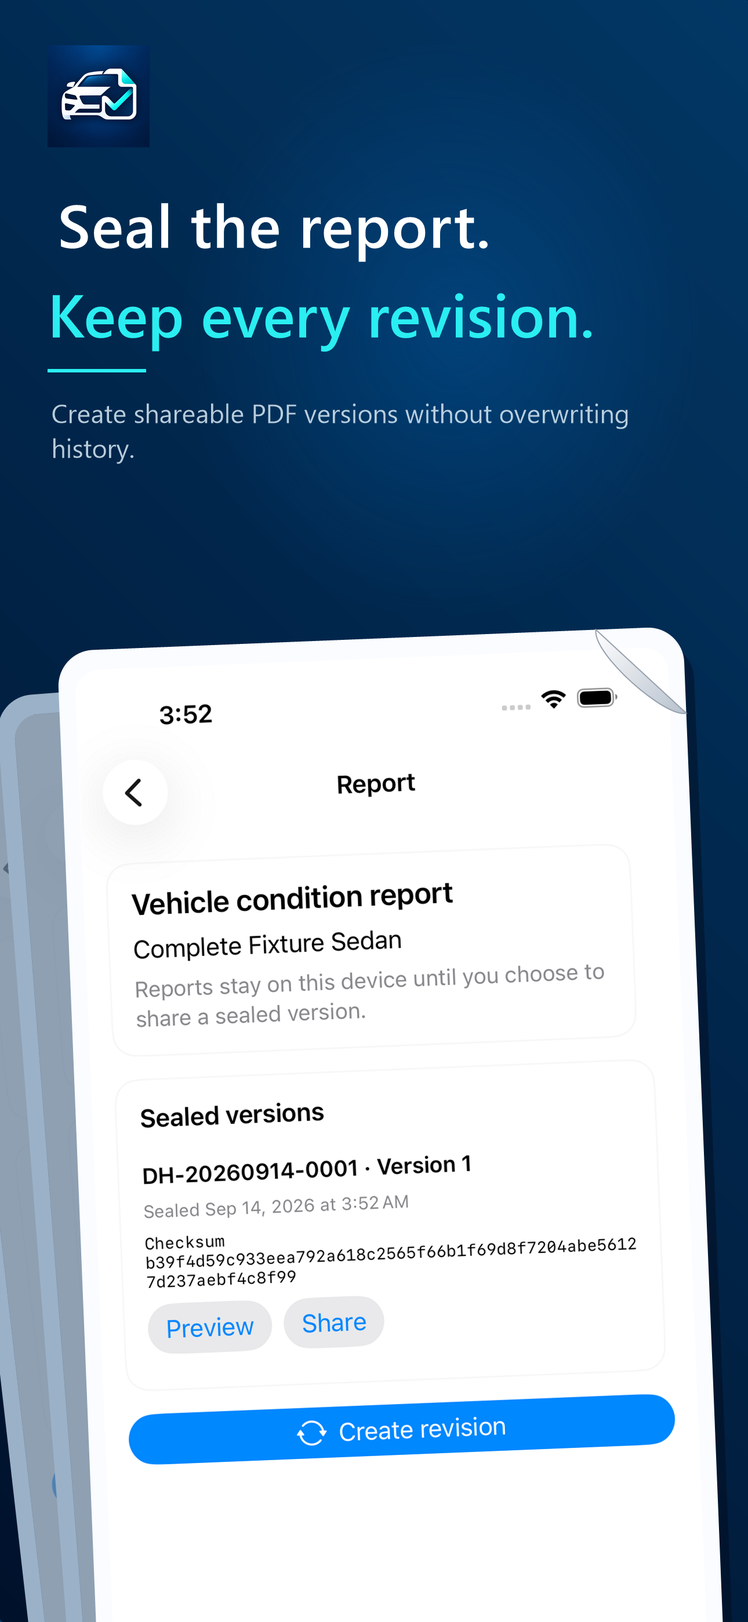
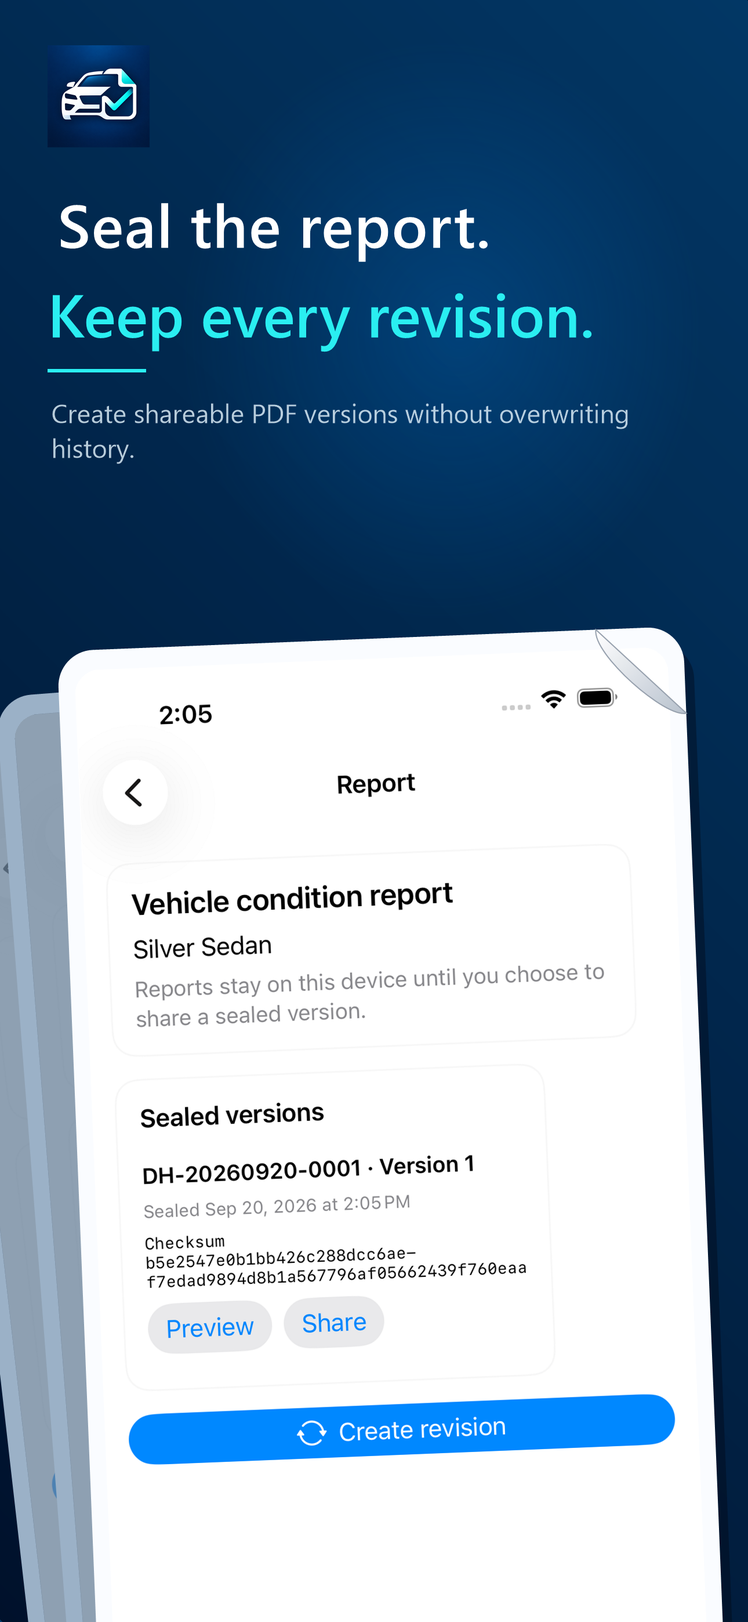
Use fictional vehicle photos in App Store screenshot fixtures (#4)
* Replace screenshot placeholders with fictional vehicle photos

* Stabilize iPad screenshot navigation and result upload

* Polish screenshot headline and capture photo count

* Refresh draft App Store screenshots from green CI

---------

diff --git a/DetailHandoff/Testing/UITestFixtures.swift b/DetailHandoff/Testing/UITestFixtures.swift
@@ -5,7 +5,10 @@ import UIKit
 
 @MainActor
 enum UITestFixtures {
-    private enum FixtureError: Error { case unknownFixture }
+    private enum FixtureError: Error {
+        case unknownFixture
+        case missingPhoto(String)
+    }
     private static let fixtureArgument = "--screenshot-fixture"
     private static let startupFailureArgument = "--startup-failure"
     private static let preserveStoreArgument = "--ui-testing-preserve-store"
@@ -75,7 +78,7 @@ enum UITestFixtures {
         let media = MediaStore(root: root.appendingPathComponent("CaptureMedia", isDirectory: true))
         let business = BusinessRepository(context: context, media: media)
         let profile = try business.createProfile(
-            businessName: "Fixture Detail",
+            businessName: "Northline Detail Studio",
             phone: "555-0100",
             email: "fixtures@example.test",
             configuration: .standard
@@ -85,8 +88,8 @@ enum UITestFixtures {
         case "complete":
             let captureJob = try makeCaptureFixture(in: context, media: media)
             let completeJob = try makeReviewReadyJob(
-                vehicle: "Complete Fixture Sedan",
-                customer: "Taylor Fixture",
+                vehicle: "Silver Sedan",
+                customer: "Alex Morgan",
                 in: context,
                 media: media
             )
@@ -115,12 +118,12 @@ enum UITestFixtures {
     }
 
     private static func makeCaptureFixture(in context: ModelContext, media: MediaStore) throws -> JobRecord {
-        let job = try makeJob(vehicle: "Capture Fixture Coupe", customer: "Casey Fixture", in: context)
+        let job = try makeJob(vehicle: "Silver Sedan Walkaround", customer: "Alex Morgan", in: context)
         let jobs = JobRepository(context: context)
         try jobs.advance(job)
         try CaptureRepository(context: context, media: media).addPhoto(
             to: job,
-            data: imageData(index: 0),
+            data: try imageData(for: "front"),
             slotID: "front",
             phase: .before
         )
@@ -147,7 +150,7 @@ enum UITestFixtures {
                     slotID: beforePhoto.slotID,
                     kind: FindingKind.scratch.rawValue,
                     severity: FindingSeverity.minor.rawValue,
-                    notes: "Fixture door-edge mark",
+                    notes: "Small scuff on the front bumper",
                     photoIDs: [beforePhoto.id]
                 )
             )
@@ -173,10 +176,10 @@ enum UITestFixtures {
         try JobRepository(context: context).createJob(
             customerName: customer,
             vehicleLabel: vehicle,
-            plate: "FIX-017",
+            plate: "SAMPLE",
             color: "Silver",
             serviceName: "Full detail",
-            notes: "Generated only for DEBUG UI verification."
+            notes: "Before-service walkaround and full detail."
         )
     }
 
@@ -185,21 +188,32 @@ enum UITestFixtures {
         phase: CapturePhase,
         capture: CaptureRepository
     ) throws {
-        for (index, slot) in CaptureSlot.standard.enumerated() where slot.isRequired {
-            try capture.addPhoto(to: job, data: imageData(index: index), slotID: slot.id, phase: phase)
+        for slot in CaptureSlot.standard where slot.isRequired {
+            try capture.addPhoto(to: job, data: imageData(for: slot.id), slotID: slot.id, phase: phase)
         }
     }
 
-    private static func imageData(index: Int) -> Data {
-        let size = CGSize(width: index.isMultiple(of: 2) ? 480 : 240, height: index.isMultiple(of: 2) ? 240 : 480)
-        return UIGraphicsImageRenderer(size: size).jpegData(withCompressionQuality: 0.85) { context in
-            UIColor(hue: CGFloat(index) / 12, saturation: 0.45, brightness: 0.85, alpha: 1).setFill()
-            context.fill(CGRect(origin: .zero, size: size))
-            ("Fixture evidence \(index + 1)" as NSString).draw(
-                at: CGPoint(x: 20, y: 40),
-                withAttributes: [.font: UIFont.boldSystemFont(ofSize: 20), .foregroundColor: UIColor.black]
-            )
+    private static func imageData(for slotID: String) throws -> Data {
+        let photos = [
+            "front": "ScreenshotFront",
+            "rear": "ScreenshotRear",
+            "driver-side": "ScreenshotSide",
+            "passenger-side": "ScreenshotPassengerSide",
+            "front-bumper": "ScreenshotFront",
+            "rear-bumper": "ScreenshotRear",
+            "hood-windshield": "ScreenshotFront",
+            "wheels-tires": "ScreenshotWheel",
+            "front-seats": "ScreenshotInterior",
+            "rear-seats": "ScreenshotRearSeats",
+            "dashboard-console": "ScreenshotInterior",
+            "trunk": "ScreenshotCargo"
+        ]
+        guard let name = photos[slotID],
+              let image = UIImage(named: name),
+              let data = image.jpegData(compressionQuality: 0.85) else {
+            throw FixtureError.missingPhoto(slotID)
         }
+        return data
     }
 }
 #endif

diff --git a/DetailHandoffUITests/WorkflowUITests.swift b/DetailHandoffUITests/WorkflowUITests.swift
@@ -45,7 +45,7 @@ final class WorkflowUITests: XCTestCase {
     // Complete evidence must remain editable in review and revision; edits must block stale resealing.
     func testReviewAndRevisionExposePhotoCorrectionAndRequireNewAcknowledgment() throws {
         for revision in [false, true] {
-            let vehicle = revision ? "Revision Fixture SUV" : "Complete Fixture Sedan"
+            let vehicle = revision ? "Revision Fixture SUV" : "Silver Sedan"
             launch(arguments: ["--ui-testing", "--screenshot-fixture", revision ? "revision" : "complete"])
             openFixtureWorkflow(named: vehicle)
             if revision {
@@ -164,7 +164,7 @@ final class WorkflowUITests: XCTestCase {
     // Saved acknowledgment must be visible on reopen and only change through an explicit replacement.
     func testSavedAcknowledgmentReopensAndReplacementCanBeCancelled() throws {
         launch(arguments: ["--ui-testing", "--screenshot-fixture", "complete"])
-        openFixtureWorkflow(named: "Complete Fixture Sedan")
+        openFixtureWorkflow(named: "Silver Sedan")
         let report = scrollUntilHittable(
             {
                 app.descendants(matching: .any)
@@ -184,7 +184,7 @@ final class WorkflowUITests: XCTestCase {
         app.buttons["report.acknowledgment"].tap()
         let name = app.staticTexts["acknowledgment.savedName"]
         scrollUntilHittable(name)
-        XCTAssertEqual(name.label, "Taylor Fixture")
+        XCTAssertEqual(name.label, "Alex Morgan")
         let recordedAt = app.staticTexts["acknowledgment.savedTime"]
         require(recordedAt)
         let savedTime = recordedAt.label
@@ -194,7 +194,7 @@ final class WorkflowUITests: XCTestCase {
         scrollUntilHittable(app.buttons["acknowledgment.cancelReplacement"])
         app.buttons["acknowledgment.cancelReplacement"].tap()
         XCTAssertEqual(recordedAt.label, savedTime)
-        XCTAssertEqual(name.label, "Taylor Fixture")
+        XCTAssertEqual(name.label, "Alex Morgan")
         tapReachable(app.buttons["acknowledgment.replace"])
         scrollUntilHittable(app.buttons["Customer unavailable"])
         app.buttons["Customer unavailable"].tap()
@@ -305,7 +305,7 @@ final class WorkflowUITests: XCTestCase {
         launch(arguments: ["--ui-testing", "--screenshot-fixture", "complete"])
 
         openCaptureScreen()
-        openFixtureWorkflow(named: "Complete Fixture Sedan")
+        openFixtureWorkflow(named: "Silver Sedan")
         openFindingsScreen()
         let report = scrollUntilHittable(
             {
@@ -523,15 +523,16 @@ final class WorkflowUITests: XCTestCase {
     }
 
     private func openCaptureScreen() {
-        require(app.staticTexts["Capture Fixture Coupe"])
-        app.staticTexts["Capture Fixture Coupe"].tap()
-        require(app.navigationBars["Capture Fixture Coupe"])
+        require(app.staticTexts["Silver Sedan Walkaround"])
+        app.staticTexts["Silver Sedan Walkaround"].tap()
+        require(app.navigationBars["Silver Sedan Walkaround"])
         let captureButton = scrollUntilHittable(
             { app.buttons["workflow.openBeforeCapture"] },
             in: verticalScroll("workflow.verticalScroll")
         )
         captureButton.tap()
         require(app.navigationBars["Before photos"])
+        require(app.staticTexts["1 photo across 12 views. Add as many photos to a view as needed."])
         capture("capture")
         returnToJobs()
     }

diff --git a/DetailHandoffUITests/ScreenshotTests.swift b/DetailHandoffUITests/ScreenshotTests.swift
@@ -47,8 +47,7 @@ final class ScreenshotTests: XCTestCase {
             shortWindowSide >= 375 && longWindowSide >= 667,
             "Expected a modern full-screen app window of at least 375x667 points; observed \(windowFrame)."
         )
-        let vehicleQuery = app.descendants(matching: .any)
-            .matching(NSPredicate(format: "label == %@", "Complete Fixture Sedan"))
+        let vehicleQuery = app.buttons.containing(.staticText, identifier: "Silver Sedan")
         for _ in 0..<5 where !vehicleQuery.firstMatch.isHittable {
             jobsList.swipeUp()
         }
@@ -66,7 +65,7 @@ final class ScreenshotTests: XCTestCase {
         waitForOneSecondDiagnosticCheckpoint(named: "fixture-navigation-post-action")
         record("fixture navigation +1s checkpoint", since: startedAt, in: &timeline)
         failureCheckpoints.append(diagnosticCheckpoint(named: "fixture-navigation-after-1s", app: app))
-        let destinationBar = app.navigationBars["Complete Fixture Sedan"]
+        let destinationBar = app.navigationBars["Silver Sedan"]
         let navigationReady = destinationBar.waitForExistence(timeout: 12)
         record("destination navigation ready=\(navigationReady)", since: startedAt, in: &timeline)
         guard navigationReady else {
@@ -114,13 +113,12 @@ final class ScreenshotTests: XCTestCase {
 
     private func diagnosticCheckpoint(named name: String, app: XCUIApplication) -> DiagnosticCheckpoint {
         let screenshot = app.screenshot()
-        let fixtureQuery = app.descendants(matching: .any)
-            .matching(NSPredicate(format: "label == %@", "Complete Fixture Sedan"))
+        let fixtureQuery = app.buttons.containing(.staticText, identifier: "Silver Sedan")
         let details = [
             elementSummaries(fixtureQuery, heading: "fixture row candidates"),
             "jobs-scroll \(elementSummary(app.descendants(matching: .any).matching(identifier: "jobs.verticalScroll").firstMatch))",
             "workflow-scroll \(elementSummary(app.descendants(matching: .any).matching(identifier: "workflow.verticalScroll").firstMatch))",
-            "destination-navigation \(elementSummary(app.navigationBars["Complete Fixture Sedan"]))",
+            "destination-navigation \(elementSummary(app.navigationBars["Silver Sedan"]))",
             elementSummaries(app.navigationBars, heading: "navigation bars"),
             "app-window \(elementSummary(app.windows.firstMatch))",
             "app.debugDescription:\n\(app.debugDescription)"

diff --git a/DetailHandoff/Features/Capture/CaptureView.swift b/DetailHandoff/Features/Capture/CaptureView.swift
@@ -156,10 +156,11 @@ struct CaptureView: View {
 
     private var header: some View {
         let count = document.photos.filter { $0.phase == phase }.count
+        let photoNoun = count == 1 ? "photo" : "photos"
         return VStack(alignment: .leading, spacing: AppTheme.spacing8) {
             Text(phase == .before ? "Document starting condition" : "Match the Before views")
                 .font(.title3.weight(.semibold))
-            Text("\(count) photos across \(document.slots.count) views. Add as many photos to a view as needed.")
+            Text("\(count) \(photoNoun) across \(document.slots.count) views. Add as many photos to a view as needed.")
                 .foregroundStyle(.secondary)
         }
         .reportCard()

diff --git a/docs/release/acceptance.md b/docs/release/acceptance.md
@@ -1,10 +1,10 @@
 # V1 acceptance and evidence
 
-Last updated: 2026-09-20
+Last updated: 2026-09-21
 
 ## Release decision
 
-**Automated merged-main baseline passed on rerun; not yet App Store release-ready.** CI `34983689543`, attempt 2, built main commit `499313b`, passed 149/0 unit tests and 13/0 UI tests on each selected iPhone and iPad simulator, and uploaded test attachments. Attempt 1 of the same commit had one iPhone navigation timeout while opening the sealed report; its failure hierarchy showed the app still on the job page after the synthesized tap. The current branch adds a bounded retry for that test path and requires fresh CI before its status can be assessed. Saving a Files export, physical offline/relaunch behavior, final screenshot creative approval, name clearance, signed-archive validation, App Store Connect business setup, TestFlight, and App Review remain open. The 12 draft store frames still derive from earlier green CI `34803310219`, not the merged-main run; see `app-store-creative-audit-2026-09-16.md`.
+**Current candidate branch passed automated checks; not yet App Store release-ready.** CI [`35514766784`](https://github.com/aiden609906-sketch/DetailHandoff/actions/runs/35514766784) built `b1d27eb`, passed 149/0 unit tests and 13/0 UI tests on each selected iPhone and iPad simulator, verified screenshot fixture photos are absent from the Release build, and uploaded attachments. The 12 current draft store frames derive from that run and were visually reviewed; see `app-store-creative-audit-2026-09-21.md`. The last merged-main baseline remains CI `34983689543`, attempt 2, at `499313b`; candidate branch success is not merged-main evidence. Saving a Files export, physical offline/relaunch behavior, final screenshot creative approval, name clearance, signed-archive validation, App Store Connect business setup, TestFlight, and App Review remain open.
 
 Legend: **PASS** means the named behavior actually ran successfully in the cited run. **SOURCE** means the statement is supported by source inspection but not by the manual or external observation still named in that row. **MANUAL** is an external or physical check that automation cannot establish.
 
@@ -34,6 +34,9 @@ Legend: **PASS** means the named behavior actually ran successfully in the cited
 | [CI 34970645204](https://github.com/aiden609906-sketch/DetailHandoff/actions/runs/34970645204) | `a375036` | **PASS on isolated candidate branch:** app build; 149/0 unit tests; 13/0 iPhone UI tests; 13/0 iPad UI tests. Destinations: iPhone 17 Pro and iPad Pro 13-inch (M5), iOS 26.5. Test attachments exported and uploaded. The backup exporter test passed on both device classes using only the app-owned accessible presentation state. |
 | [CI 34983689543, attempt 1](https://github.com/aiden609906-sketch/DetailHandoff/actions/runs/34983689543/attempts/1) | `499313b` | **Mixed on merged `main`:** build, 149/0 unit tests, and 13/0 iPad UI tests passed. iPhone had 1/13 UI failure: a synthesized tap on `workflow.sealedReport` did not navigate; the failure hierarchy still showed the finalized job screen and the same visible button. This is retained as intermittent test evidence. |
 | [CI 34983689543, attempt 2](https://github.com/aiden609906-sketch/DetailHandoff/actions/runs/34983689543/attempts/2) | `499313b` | **PASS on merged `main`:** build, 149/0 unit tests, 13/0 iPhone UI tests, 13/0 iPad UI tests, and test attachment upload. The unchanged-code retry does not erase attempt 1's intermittent navigation failure. |
+| [CI 35510349822](https://github.com/aiden609906-sketch/DetailHandoff/actions/runs/35510349822) | `a92703c` | **Mixed on candidate branch:** Debug/Release builds and 149 unit tests passed; iPad accessibility navigation test did not leave Jobs after a synthesized static-text tap. UI step timed out while finalizing results, and the artifact upload encountered a transient `.xcresult/Staging` file. This is failure evidence, not an accepted screenshot source. |
+| [CI 35512749619](https://github.com/aiden609906-sketch/DetailHandoff/actions/runs/35512749619) | `a6e2aa4` | **PASS on candidate branch:** changed the test to tap the whole job-row button and excluded transient staging files from artifact upload. Build, both UI suites, attachment export, and artifact upload completed. Its screenshots were reviewed but superseded by the corrected-copy run below. |
+| [CI 35514766784](https://github.com/aiden609906-sketch/DetailHandoff/actions/runs/35514766784) | `b1d27eb` | **PASS on candidate branch:** simulator and Release builds, Release fixture exclusion, 149/0 unit tests, 13/0 iPhone UI tests, 13/0 iPad UI tests, attachment export, and upload. This is the exact source of the 12 current draft store PNGs; it is not a signed or physical-device release check. |
 
 The stable 40-photo PDF outputs and rendered QA pages remain outside product source under `.superpowers/sdd/2026-09-04-reports/ci-33848520274/` and `.superpowers/sdd/2026-09-04-reports/pdf-qa/`. They must not be relocated into the app bundle or deleted during release preparation.
 
@@ -120,11 +123,11 @@ CI `34560087867`, attempt 2, exported 30 attachments for each device class acros
 
 CI `34983689543`, attempt 2, exported iPhone and iPad test attachments after all 13 UI tests passed on each device class. The backup exporter assertion remains limited to the app-owned presentation boundary; these attachments have not been promoted to App Store marketing artwork.
 
-The prior 12 App Store marketing PNGs from CI `34740399131` were reviewed on 2026-09-14 and exposed a pre-release support placeholder and imprecise cloud wording in iPad frame 06. The current 12 PNGs derive from green CI `34803310219`; both frame-06 outputs were inspected at native resolution, and all 12 outputs passed opaque RGB/dimension checks. The factual frame-06 blocker is removed, but synthetic fixture imagery, iPad whitespace, and final creative approval remain open. The current six-step audit is in `app-store-creative-audit-2026-09-16.md`.
+The current 12 App Store marketing PNGs derive from green CI `35514766784` and use fictional realistic vehicle photos rather than the former solid-color blocks. All 12 outputs were opened for visual review and passed opaque 24-bit RGB/dimension checks. The support placeholder and imprecise cloud wording remain absent. Final approval remains open because iPad frames 01/03/05 have excessive whitespace, iPhone frame 04 does not show the signature, and the finding photo is too small to independently establish the stated scuff. See `app-store-creative-audit-2026-09-21.md`.
 
 ## Pending release gates
 
-- Preserve the merged-main baseline from CI `34983689543`, attempt 2, when making release changes. The app build, 149 unit tests, and both 13-test UI suites completed for `499313b`; attempt 1 remains evidence of an intermittent iPhone sealed-report navigation tap. The current branch's bounded retry needs its own green CI. The 12 marketing screenshots come from earlier CI `34803310219`, not this test run, and final creative approval is still separate.
+- Preserve the merged-main baseline from CI `34983689543`, attempt 2, when making release changes. Candidate branch CI `35514766784` is green, but still needs integration and a merged-main run. The earlier intermittent iPhone sealed-report tap and candidate iPad navigation failure remain historical evidence; neither should be erased by a green rerun. Final screenshot creative approval is separate from CI.
 - Verify the privacy manifest in the signed release archive and validate its required-reason declaration against actual runtime behavior. The built simulator resource test is green.
 - Run physical iPhone and iPad tests for camera capture, photo permission states, cancellation, force-quit/interruption, airplane mode, rotation/multitasking, large Dynamic Type/VoiceOver, low storage, 40-photo performance, PDF viewers/share destinations, Files/iCloud/external backup restore, deletion, and cleanup. Use `physical-device-checklist.zh-CN.md` to record device and build evidence.
 - Establish Apple Developer membership, account owner, team, bundle identifier, certificates, profiles, signing, and release archive validation.

diff --git a/docs/release/app-store.md b/docs/release/app-store.md
@@ -1,10 +1,10 @@
 # App Store handoff
 
-Last updated: 2026-09-20
+Last updated: 2026-09-21
 
 ## Submission status
 
-**Do not submit this revision yet.** Merged-main commit `499313b` passed CI `34983689543`, attempt 2: app build, 149/0 unit tests, and 13/0 UI tests on each selected iPhone and iPad simulator. Attempt 1 had one intermittent iPhone sealed-report navigation tap that is being hardened on the current branch; fresh CI is required for that change. The 12 App Store screenshots still come from earlier green CI `34803310219` and remain draft artwork. The icon master and public support/privacy pages exist, but final screenshot creative approval, physical-device checks, legal name clearance, signed-archive validation, account-owned metadata, Paid Apps Agreement, tax/banking setup, TestFlight, and App Review remain open. No publication is claimed.
+**Do not submit this revision yet.** Candidate commit `b1d27eb` passed CI [`35514766784`](https://github.com/aiden609906-sketch/DetailHandoff/actions/runs/35514766784): app and Release builds, 149/0 unit tests, 13/0 UI tests on each selected iPhone and iPad simulator, screenshot-fixture exclusion, and attachment upload. The 12 App Store screenshots now come from that run, but remain draft artwork after visual audit. The last merged-main baseline is CI `34983689543`, attempt 2. Final screenshot creative approval, physical-device checks, legal name clearance, signed-archive validation, account-owned metadata, Paid Apps Agreement, tax/banking setup, TestFlight, and App Review remain open. No publication is claimed.
 
 ## Commercial configuration
 
@@ -43,12 +43,12 @@ Validate the camera permission prompt on physical iPhone and iPad for first deni
 ## Required creative assets
 
 - `Assets.xcassets/AppIcon.appiconset/AppIcon-1024.png` is the selected opaque 1024×1024 master and is referenced by `Contents.json`. Dimensions, RGB opacity, JSON syntax, and visual safe margins were checked locally; Xcode asset compilation and signed-archive validation remain required.
-- Draft English screenshot sets are in `docs/release/app-store-assets/iphone` (1290×2796) and `docs/release/app-store-assets/ipad` (2048×2732). They use the selected dark-navy Product Design direction and exact simulator captures from green CI `34803310219`, without AI-rewritten app UI.
-- The six-frame story covers report creation, guided Before capture, findings, acknowledgment, sealed revision history, and local-data/privacy controls. The current Product Design review is in `app-store-creative-audit-2026-09-16.md`: retain the chosen visual direction, but recapture with realistic fictional fixture data before upload. Wide iPad whitespace and thumbnail readability also need a final creative pass.
+- Draft English screenshot sets are in `docs/release/app-store-assets/iphone` (1290×2796) and `docs/release/app-store-assets/ipad` (2048×2732). They use the selected dark-navy Product Design direction and exact simulator captures from green CI `35514766784`, with realistic fictional vehicle photos but no AI-rewritten app UI. Release builds exclude the screenshot-only photo catalog.
+- The six-frame story covers report creation, guided Before capture, findings, acknowledgment, sealed revision history, and local-data/privacy controls. The current Product Design review is in `app-store-creative-audit-2026-09-21.md`: retain the chosen visual direction; improve iPad frames 01/03/05, show the signature on iPhone frame 04, and align the finding image with its claim before upload.
 - Review every image at native resolution for cropping, Dynamic Type overflow, private information, placeholder data, misleading status, and device chrome.
 - Optional promotional art, preview video, and localization are not required by this handoff and have not been produced.
 
-The 27 PNGs from CI `33936741128` remain failure diagnostics, not store assets. CI `34740399131` is the superseded screenshot source; CI `34803310219` is the source of the current store set. Both current frame-06 outputs were inspected at native resolution and all 12 current PNGs passed dimension/opaque-RGB checks. The previous iPad frame-06 factual blocker is resolved; no final creative approval is claimed.
+The 27 PNGs from CI `33936741128` remain failure diagnostics, not store assets. CI `34803310219` is the superseded screenshot source; CI `35514766784` is the source of the current store set. All 12 current PNGs were visually inspected and passed dimension/opaque-RGB checks. The previous iPad frame-06 factual blocker is resolved; no final creative approval is claimed.
 
 ## Pre-membership checks (2026-09-14)
 
@@ -60,7 +60,7 @@ The 27 PNGs from CI `33936741128` remain failure diagnostics, not store assets. 
 
 ## Metadata and account checklist
 
-- [x] Obtain a green merged-main macOS build, all 149 unit tests, and all 13 UI tests on both iPhone and iPad (CI `34983689543`, attempt 2, commit `499313b`). A new CI pass is still required for this branch's UI-test hardening. Files saving/cancellation remains a physical-device check.
+- [x] Obtain a green merged-main macOS baseline (CI `34983689543`, attempt 2, commit `499313b`) and a green candidate run (CI `35514766784`, commit `b1d27eb`), each with 149 unit tests and 13 UI tests on both iPhone and iPad. A merged-main run of this candidate is still required after integration. Files saving/cancellation remains a physical-device check.
 - [ ] Verify the archived `PrivacyInfo.xcprivacy` declares DiskSpace reason `E174.1` for the actual capture/import storage check, without tracking or collected-data claims beyond the implementation. The built simulator resource test has passed.
 - [x] Pass the Phase 1 on-disk migration fixture without losing baseline records (included in the 149-test run).
 - [ ] Complete physical iPhone and iPad camera, permissions, interruption, offline, accessibility, performance, Files/share, backup/restore, deletion, and low-storage checks using `physical-device-checklist.zh-CN.md`.
@@ -70,7 +70,7 @@ The 27 PNGs from CI `33936741128` remain failure diagnostics, not store assets. 
 - [x] Publish the privacy policy URL: `https://detailhandoff-support.aiden609906.chatgpt.site/privacy/`.
 - [ ] Complete category, age rating, copyright, seller/developer name, SKU, version/release notes, territories, paid-app price, App Store privacy responses, accessibility information, and export-compliance answers.
 - [x] Prepare length-validated U.S. English product-page copy and truthful App Review notes for the current binary.
-- [ ] Validate the selected 1024px icon and all asset warnings in the release archive; obtain final creative approval for the recaptured iPhone/iPad screenshots, then upload approved assets. The frame-06 factual correction is complete, but synthetic imagery and iPad whitespace remain creative review points.
+- [ ] Validate the selected 1024px icon and all asset warnings in the release archive; obtain final creative approval for the recaptured iPhone/iPad screenshots, then upload approved assets. Synthetic demo imagery is disclosed and isolated from Release builds, but iPad whitespace, iPhone acknowledgment visibility, and the finding-photo/text match remain creative review points.
 - [ ] Add truthful reviewer notes describing local data, camera/photo selection, synthetic review data, backup/restore, and any non-obvious navigation. No demo account is required by current source because there is no login.
 - [ ] Accept paid-app and other business agreements; complete tax and banking information.
 - [ ] Recruit TestFlight users, distribute a signed build, capture feedback, fix release blockers, and retest. No TestFlight activity is claimed.

diff --git a/docs/release/app-store-creative-audit-2026-09-21.md b/docs/release/app-store-creative-audit-2026-09-21.md
@@ -1,0 +1,30 @@
+# App Store creative audit — 2026-09-21
+
+Scope: the six iPhone and six iPad draft marketing PNGs in `app-store-assets/`, regenerated from successful simulator CI [`35514766784`](https://github.com/aiden609906-sketch/DetailHandoff/actions/runs/35514766784) at commit `b1d27eb`. Every output was opened and inspected in this audit. This is a visual/content review, not an App Review, legal, or accessibility approval.
+
+## Decision
+
+**Keep the selected dark-navy direction and the new fictional vehicle imagery; do not upload this draft set yet.** The earlier solid-color evidence blocks and fixture-style vehicle name are gone, the headline spacing and single-photo grammar are corrected, and the privacy claim remains qualified. The iPad story still loses impact to empty app space, while the iPhone acknowledgment frame does not show the recorded signature. The finding text calls out a small scuff that cannot be verified from its tiny full-car thumbnail.
+
+## Six-step story
+
+| Step | Screen pair | Health | Evidence and next change |
+|---|---|---|---|
+| 1 | Professional record | Needs polish | Report actions are legible on iPhone; iPad places a small action group above a large empty white area. Use a denser, truthful report state for the iPad frame. |
+| 2 | Guided capture | Needs polish | A realistic fictional front photo replaces the color block, and `1 photo` is grammatical. One small photo beside several empty capture rows weakly supports “every angle”; capture a richer but accurate state. |
+| 3 | Findings | Needs revision | Severity, area, note, and supporting photo are visible. The whole-car thumbnail does not visibly substantiate the stated scuff; use a matching close-up or change the fictional finding to match the photo. The iPad frame is mostly empty. |
+| 4 | Acknowledgment | Needs revision | The iPad frame shows service, vehicle photos, customer name, timestamp, and signature. The iPhone frame stops above the signature, so it does not show the core action promised by the headline. Recapture the phone after scrolling to the acknowledgment. |
+| 5 | Seal and revise | Needs polish | Version, checksum, Preview, Share, and Create revision are visible. On iPad, the version card is small above a broad empty area; use a more focused truthful state. |
+| 6 | Local control | Acceptable with pre-upload recheck | The iPad Settings capture shows the system-backup caveat and support email. The iPhone capture crops those below the fold, while the marketing subtitle correctly limits “no cloud” to developer service. |
+
+## Strengths and risks
+
+- The selected icon, navy/white/cyan treatment, tilted-report composition, and six-part sequence remain consistent.
+- Source app UI comes from the actual simulator run; generated photos are fixture data, not AI-redrawn controls or real customer records. The photo catalog is excluded from the Release build.
+- Each pair is an opaque 24-bit RGB PNG at its intended 1290×2796 or 2048×2732 size.
+- At store-thumbnail size, iPad interface labels in frames 01, 03, and 05 will be hard to read. Screenshot inspection cannot prove VoiceOver behavior, contrast after storefront compression, or physical-device Dynamic Type/reflow.
+- “Scratch · Minor” describes fictional test data; the associated photo is too small to verify a real mark. Do not imply these images prove a documented real-world service outcome.
+
+## Evidence limits
+
+The audit did not test App Store compression, signed builds, Apple review acceptance, VoiceOver, keyboard/focus order, rotation, split view, or physical camera behavior. No real customer/vehicle data or real Before/After service result was used. The 12 images are useful design drafts and CI-backed UI evidence, but final screenshot creative approval remains open.

diff --git a/docs/release/app-store-assets/README.md b/docs/release/app-store-assets/README.md
@@ -1,6 +1,6 @@
 # App Store screenshot set
 
-These English-first draft screenshots implement the selected dark-navy Product Design direction with exact UI captures from green CI run `34803310219` (code commit `5d901de`). All 12 frames were regenerated from that run's iPhone and iPad attachment manifests on 2026-09-14. The previous set came from CI `34740399131` and is superseded.
+These English-first draft screenshots implement the selected dark-navy Product Design direction with exact UI captures from green CI run [`35514766784`](https://github.com/aiden609906-sketch/DetailHandoff/actions/runs/35514766784) (code commit `b1d27eb`). All 12 frames were regenerated from that run's iPhone and iPad attachment manifests on 2026-09-21. The previous set came from CI `34803310219` and is superseded. Screenshot-only vehicle photos are fictional and excluded from Release builds.
 
 ## Upload order
 
@@ -18,7 +18,7 @@ These English-first draft screenshots implement the selected dark-navy Product D
 
 Both sizes are accepted by the current App Store Connect screenshot specification. Recheck Apple's specification immediately before upload because supported device classes can change.
 
-The refreshed iPad frame 06 visibly includes the system-backup caveat, `DetailHandoff`, and the real support email; the old support placeholder is absent. The iPhone frame 06 crops below the first Privacy row, so its app capture does not show the backup caveat or email; its marketing subtitle explicitly limits the no-cloud statement to a developer cloud service. Final creative approval remains separate from this factual correction.
+The refreshed iPad frame 06 visibly includes the system-backup caveat, `DetailHandoff`, and the real support email; the old support placeholder is absent. The iPhone frame 06 crops below the first Privacy row, so its app capture does not show the backup caveat or email; its marketing subtitle explicitly limits the no-cloud statement to a developer cloud service. All 12 frames were visually inspected and passed 24-bit RGB/dimension checks. They remain **drafts**, not approved uploads: iPad frames 01, 03, and 05 have substantial empty app space; iPhone frame 04 does not show the acknowledgment signature; the small finding photo does not independently prove the fictional scuff described in text. See `../app-store-creative-audit-2026-09-21.md`.
 
 ## Regeneration
 

diff --git a/docs/release/screenshot-fixture-photos.md b/docs/release/screenshot-fixture-photos.md
@@ -1,0 +1,20 @@
+# Screenshot fixture photo provenance
+
+Eight fictional vehicle photos were generated with the built-in image-generation tool for the `--ui-testing --screenshot-fixture complete` flow. They depict the same generic, unbranded silver sedan in an ordinary detailing bay. No customer, plate number, address, or real job is represented. The sources are in `DetailHandoff/Resources/ScreenshotFixtures.xcassets` and are intended only for Debug UI testing and draft App Store screenshots; Release builds exclude that catalog through `project.yml`.
+
+## Prompt set
+
+Shared prompt: *Natural, candid smartphone condition-documentation photo of the same unbranded silver compact sedan in a plain indoor detailing bay; landscape 4:3; neutral workshop lighting; honest pre-service texture; no people, logos, readable plates, text, watermark, collage, or UI.* The front image established the car and bay. Each subsequent image used the relevant earlier photo as a visual identity reference and requested one new inspection viewpoint:
+
+| Asset | Requested viewpoint | Capture slots using it |
+|---|---|---|
+| `ScreenshotFront` | Straight-on front, including bumper, hood, and windshield | Front, front bumper, hood and windshield |
+| `ScreenshotRear` | Straight-on rear, including bumper and trunk lid | Rear, rear bumper |
+| `ScreenshotSide` | Driver-side profile | Driver side |
+| `ScreenshotPassengerSide` | Passenger-side profile | Passenger side |
+| `ScreenshotWheel` | Front driver-side wheel and tire close-up | Wheels and tires |
+| `ScreenshotInterior` | Front seats, dashboard, and console from driver-side door | Front seats, dashboard and console |
+| `ScreenshotRearSeats` | Rear bench from passenger-side door | Rear seats |
+| `ScreenshotCargo` | Open trunk and cargo area | Trunk or cargo area |
+
+The same fictional image set is used for Before and After in the automated fixture. It demonstrates the app's workflow, **not** a documented real-world detailing outcome. App Store review notes already disclose synthetic screenshot data. The 12 draft PNGs were regenerated from CI `35514766784` and visually inspected on 2026-09-21. They are not final upload assets; see `app-store-creative-audit-2026-09-21.md` for remaining content and legibility issues.
